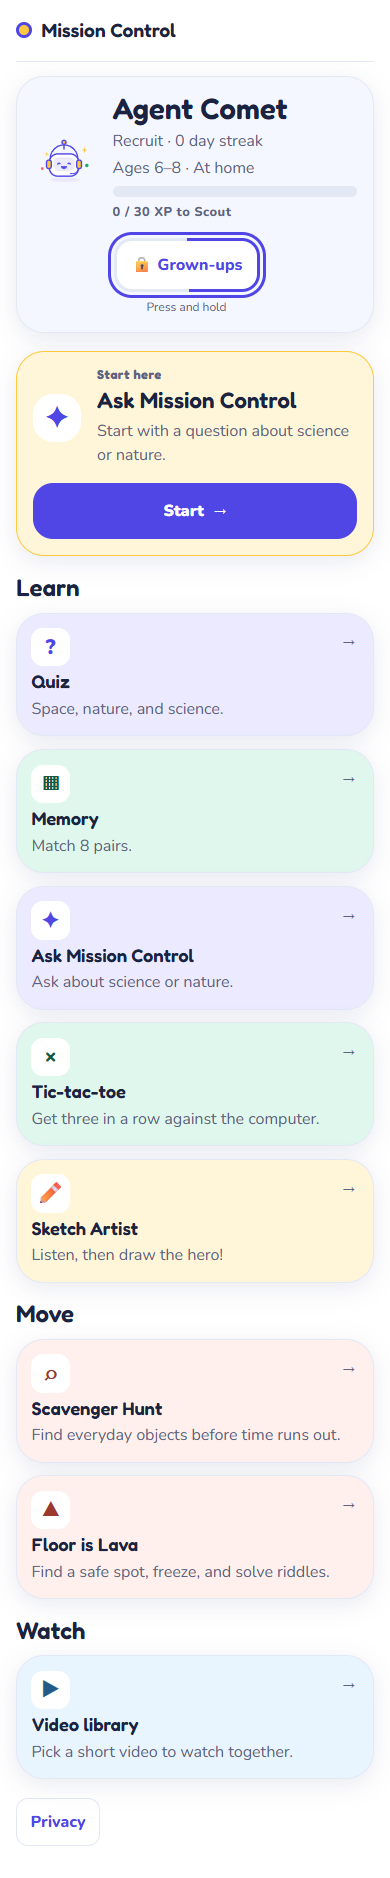
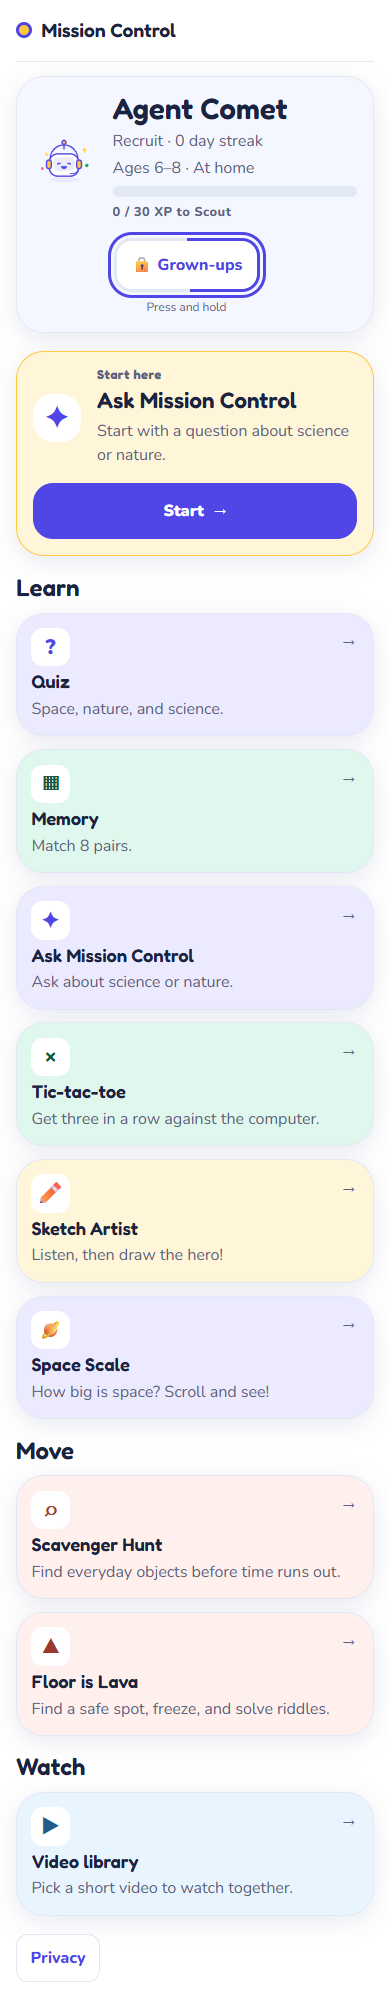
test(flow): verify journeys alongside Space Scale

diff --git a/design/FLOW.md b/design/FLOW.md
@@ -68,12 +68,13 @@
 - В памяти остаются только пассивные экраны Ask под его квизом и анкета/настройки под Privacy. Игры с таймерами за другими экранами не хранятся.
 - Для итогов миссии используется новый `MissionSummary.tsx`. Старый экспорт Results в запрещённом `Mission.tsx` не изменён и из App больше не используется.
 - Не менялись worker, audio, voice, game, games, shared/types, content, scripts, package.json и lockfile. Новых зависимостей нет.
+- При rebase сохранён добавленный другим участником **Space Scale**: его карточка, возрастные режимы и lazy-загрузка остались, Back подключён к стеку, после завершения доступен общий Next up. Конфликты разрешались только в разрешённых `App.tsx` и `Home.tsx`.
 
 ## Нужны правки в других файлах
 
 Основной путь работает в разрешённой зоне. Отдельно, с владельцами модулей, можно завершить унификацию:
 
-1. **`src/games/sketch/SketchGame.tsx`**: у игры собственный заголовок. Чтобы добавить в него те же крошки и Home без второго заголовка, нужен явный слот/контракт от модуля и правка его оболочки. Сейчас Back работает через общий стек, но внутренний заголовок Sketch не менялся.
+1. **`src/games/sketch/SketchGame.tsx` и `src/games/space/SpaceGame.tsx`**: у этих игр собственные заголовки. Чтобы добавить в них те же крошки и Home без второго заголовка, нужен явный слот/контракт от модулей и правка их оболочек. Сейчас Back работает через общий стек, но внутренние заголовки модулей не менялись.
 2. **`src/screens/Mission.tsx`**: если при открытии Leave this game нужно автоматически приостанавливать игровой таймер, требуется отдельный управляемый pause/resume-контракт. Сейчас подтверждение навигации не изменяет ход раундов; игрок может пользоваться существующей кнопкой Pause. Нельзя безопасно вызывать старый onBack как паузу: при уже включённой паузе он завершает миссию.
 3. Старые browser-check сценарии внутри **`src/games/sketch/`** ищут прежнюю кнопку Parent settings и могут потребовать обновления селекторов на удержание Grown-ups. Эти тесты принадлежат отдельному модулю и не редактировались. Сама игра и проверка её оценки не менялись.
 
